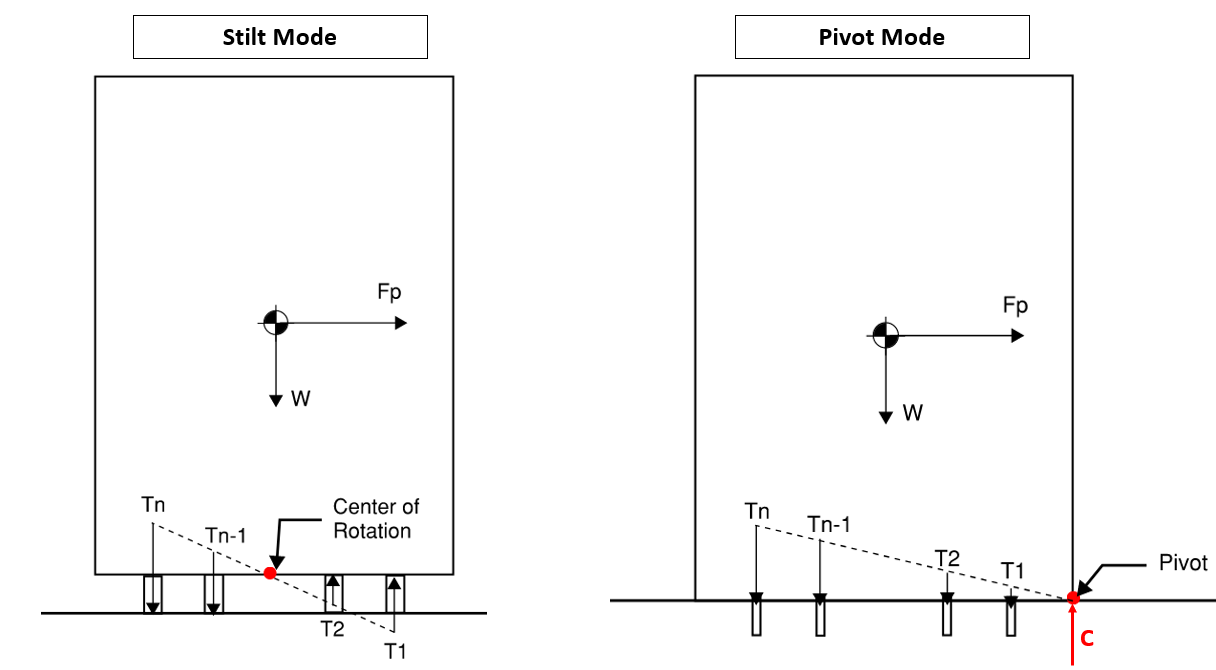
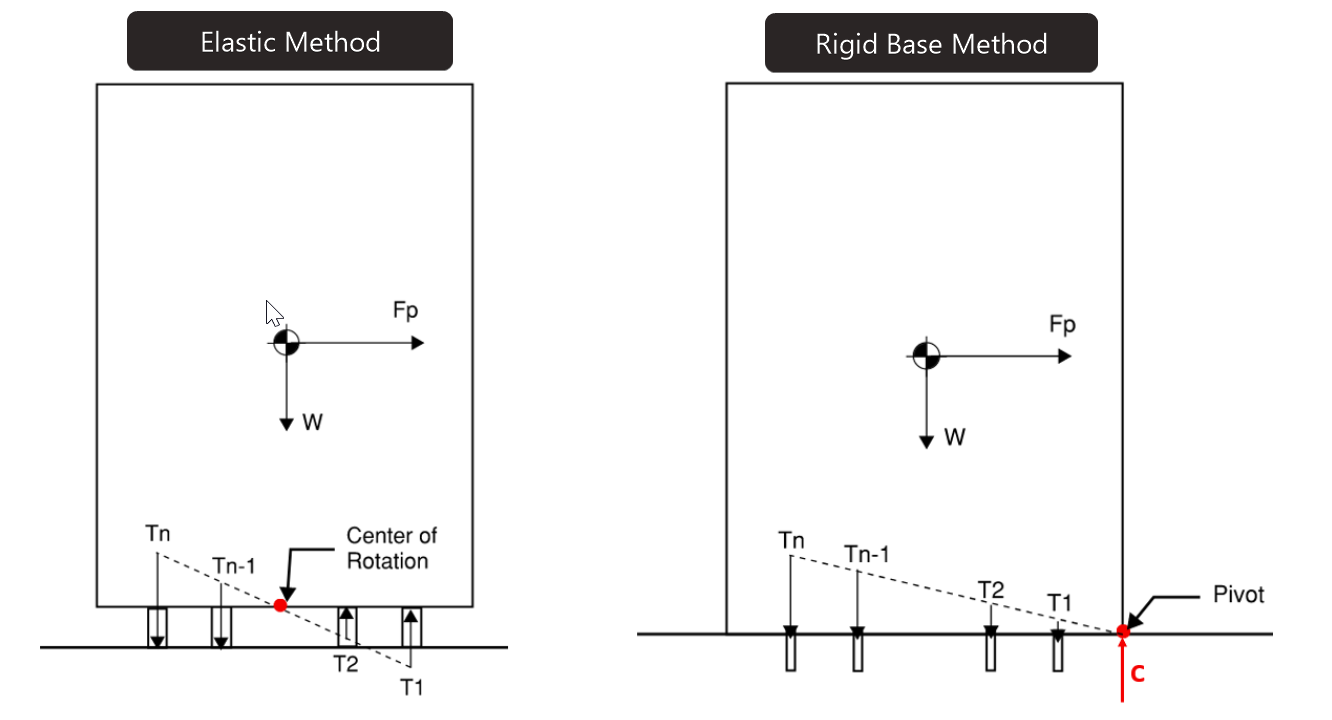
updating readme progress

diff --git a/main.py b/main.py
@@ -2,7 +2,8 @@ import ezanchor as eza
 
 # initialize equipment anchorage analysis
 AHU4 = eza.equipment.Equipment(name="AHU4", Sds=1.85, Ip=1, h=44, z=44, ap=2.5, Rp=2, omega=2, 
-                               weight=3500, CGz=64, CGx=40, CGy=85, load_combo="LRFD", use_omega=True)
+                               weight=3500, CGz=64, CGx=40, CGy=85, 
+                               load_combo="LRFD", use_omega=True)
 
 # define base footprint
 AHU4.add_footprint(xo=0, yo=0, b=60, h=120)
@@ -19,10 +20,10 @@ AHU4.add_anchor(x=90, y=125)
 # solveW
 AHU4.solve(on_stilt=True)
 
-# visualization options
-fig = eza.plotter.preview(AHU4)
-fig3 = eza.plotter.plot_equipment(AHU4)
-fig2 = eza.plotter.plot_anchor(AHU4, 2)
+# visualization
+eza.plotter.preview(AHU4)
+eza.plotter.plot_equipment(AHU4)
+eza.plotter.plot_anchor(AHU4, 2)
 
-# export data
-#AHU4.export_data()
+# export data in spreadsheet format within current working directory
+AHU4.export_data()

diff --git a/README.md b/README.md
@@ -2,10 +2,11 @@ The following python package accompanies the SEAOC 2024 Convention paper:
 
 **"Critical Orientation of Seismic Force for Floor-Mounted Nonstructural Component Anchorage" (Wang et al, 2024)**
 
+See abstract below. For additional information, please refer to the 2024 SEAOC Convention proceedings, accessible online.
+
 > The design of nonstructural component anchorage depends on both magnitude and direction of the seismic force (Fp), the latter of which is the subject of this paper. In recent years, research efforts led by ATC (2017) have greatly improved the estimation of seismic demand, resulting in a revamped Fp equation in the 2022 version of ASCE/SEI-7. As for direction, the code offers limited guidance and states that Fp shall be applied in the direction that produces the most critical load effects. Alternatively, the code permits the use of the empirical “100%-30%” directional combination like the one used in the seismic analysis of building structures. In this paper, we explore the surprisingly nuanced topic of critical load orientation for design of floor-mounted component anchorage. The study began with a rigorous definition of how the load effects – namely anchor shear and tension demand – are calculated, addressing variabilities in assumptions and methods in industry practice. The formulations were then incorporated into a standalone python package to streamline calculations. Using this program, a series of parametric studies were conducted to tackle the key question: “how does one determine the critical force direction for floor-mounted component anchorage?”. An example problem is provided at the end to illustrate the concepts discussed herein.
 >
 
-For additional details, please refer to the 2024 SEAOC Convention proceedings, accessible online.
 
 
 
@@ -14,13 +15,12 @@ For additional details, please refer to the 2024 SEAOC Convention proceedings, a
   <br>
   <img src="https://raw.githubusercontent.com/wcfrobert/ezanchor/master/docs/logo.png" alt="logo" style="zoom:80%;" />
   <br>
-  Nonstructural Component Anchorage Calculator
+  Nonstructural Component Anchorage
   <br>
 </h1>
 <p align="center">
-EZAnchor calculates anchorage demand of floor-mounted nonstructural components subjected to seismic forces at all possible orientations.
+EZAnchor calculates anchor demands of floor-mounted nonstructural components subjected to seismic forces in all possible orientations.
 </p>
-
 
 
 
@@ -44,33 +44,26 @@ EZAnchor calculates anchorage demand of floor-mounted nonstructural components s
   * [Step 5: Visualize](#step-5--visualize)
   * [Step 6: Export results to CSV](#step-6--export-results-to-csv)
 - [Theoretical Background](#theoretical-background)
-  * [Load Combination and Seismic Force (ASCE 7-16 Chapter 13)](#load-combination-and-seismic-force--asce-7-16-chapter-13-)
-  * [Anchor Group Geometric Properties](#anchor-group-geometric-properties)
-  * [Equipment Orientation](#equipment-orientation)
-  * [Pivot Mode](#pivot-mode)
-  * [Stilt Mode](#stilt-mode)
 - [Notes and Assumptions](#notes-and-assumptions)
 - [License](#license)
 
 
 
+
 ## Introduction
 
-EZAnchor is a Python applet that performs nonstructural components seismic force (Fp) calculations per ASCE 7-16 Chapter 13, it then applies Fp in all possible directions (all 360 degrees) to determine the maximum shear and tension in the anchors holding the equipment in place.
+EZAnchor is a Python package that performs nonstructural components seismic force (Fp) calculations per ASCE 7-16 Chapter 13, it then applies Fp in all possible directions (all 360 degrees) to determine the maximum shear and tension in the anchors holding the equipment in place.
 
 <img src="https://raw.githubusercontent.com/wcfrobert/ezanchor/master/docs/FBD_COMBINED.png" alt="FBD" style="width:90%;" /> 
 
 
-The technical background for equipment overturning calculation is quite simple. In most cases, some basic statics and free-body diagrams will get you close enough to a reasonable answer. What makes EZAnchor special are the following features.
+The technical background for equipment overturning calculation is quite simple. In most cases, some basic statics and free-body diagrams will get you close enough. What makes EZAnchor special are the following:
 
 * Can evaluate equipment with arbitrary number and arrangement of anchors
 * Can evaluate equipment overturning in all possible orientations
 * Can quickly calculate Ix, Iy, Ip, Ixy, principal moments of inertia of any anchor arrangement
 * Can calculate effect of in-plane torsion (where anchor group centroid (COR) does not coincide with equipment COG)
-* Can quickly switch between "Pivot Mode" or "Stilt Mode"
-
-**Disclaimer:** this package is meant for <u>personal or educational purpose only</u>. I did not spent much time debugging all the edge cases and nothing is as robust as it could be. EZAnchor should not be used for commercial purpose of any kind!
-
+* Can quickly switch between rigid base method (`on_stilt=False`) or elastic method (`on_stilt=True`).
 
 
 
@@ -83,13 +76,15 @@ See "Installation" section below for more info. For casual users, simply use Ana
 **Using EZAnchor**
 
 ```python
-# import ezanchor
+# import ezanchors
 import ezanchor as eza
 
-# initialize equipment anchorage analysis
-AHU4 = eza.equipment.Equipment(name="AHU4", Sds=1.85, Ip=1, h=44, z=44, ap=2.5, Rp=2, omega=2, weight=3500, CGz=64, CGx=40, CGy=85, load_combo="LRFD", use_omega=True)
+# initialize equipment object
+AHU4 = eza.equipment.Equipment(name="AHU4", Sds=1.85, Ip=1, h=44, z=44, ap=2.5, Rp=2, omega=2, 
+                               weight=3500, CGz=64, CGx=40, CGy=85, 
+                               load_combo="LRFD", use_omega=True)
 
-# define equipment base footprint
+# define base footprint
 AHU4.add_footprint(xo=0, yo=0, b=60, h=120)
 AHU4.add_footprint(xo=60, yo=60, b=60, h=60)
 
@@ -101,19 +96,17 @@ AHU4.add_anchor(x=30, y=125)
 AHU4.add_anchor(x=90, y=55)
 AHU4.add_anchor(x=90, y=125)
 
-# solve
-AHU4.solve(on_stilt=False)
+# solveW
+AHU4.solve(on_stilt=True)
 
-# visualization options
-fig1 = eza.plotter.preview(AHU4)
-fig2 = eza.plotter.plot_anchor(AHU4, 2)
-fig3 = eza.plotter.plot_equipment(AHU4)
-fig1.show()
-fig2.show()
-fig3.show()
+# visualization
+eza.plotter.preview(AHU4)
+eza.plotter.plot_equipment(AHU4)
+eza.plotter.plot_anchor(AHU4, 2)
 
-# export data
+# export data in spreadsheet format within current working directory
 AHU4.export_data()
+
 ```
 
 
@@ -122,7 +115,7 @@ AHU4.export_data()
 
 **<u>Option 1: Anaconda Python Distribution</u>**
 
-For the casual users, using the base Anaconda Python environment is recommened. This is by far the easiest method of installation. Users don't need to worry about dependency management and setting up virtual environments. The following open source packages are used in this project:
+The easiest way to use EZAnchors is through Anaconda Python. The following open source packages are used in this project which are included in the base environment of Anaconda.
 
 * Numpy
 * Matplotlib
@@ -131,9 +124,10 @@ Installation procedure:
 
 1. Download Anaconda python
 2. Download this package (click the green "Code" button and download zip file)
-3. Open and run "main.py" in Anaconda's Spyder IDE. Make sure working directory is correctly configured.
+3. Open and run "main.py" in Anaconda's Spyder IDE
 
-**<u>Option 2: Command Prompt + Plain Python</u>**
+
+**<u>Option 2: Standalone Python</u>**
 
 1. Download this project to a folder of your choosing
     ```
@@ -160,7 +154,7 @@ Installation procedure:
     py main.py
     ```
 
-Note that pip install is available.
+Pip install is also available.
 
 ```
 pip install ezanchor
@@ -296,9 +290,9 @@ AHU4.add_anchor_group(x0=5, y0=5, b=50, h=110, nx=2, ny=3, mode="p")
 `Equipment.solve(on_stilt = False)` starts analysis routine.
 
 * on_stilt: boolean (optional)
-  * Choose between stilt mode or pivot mode. Default = False = pivot mode
+  * Choose between elastic method or rigid base method. Default = False = rigid base method.
 
-Refer to "Theoretical Background" section for how pivot mode and stilt mode differs.
+Refer to "Theoretical Background" section for how these two methods differs.
 
 ```python
 # solve
@@ -368,16 +362,37 @@ fig3 = eza.plotter.plot_equipment(AHU4)
 
 `Equipment.export_data()` export results to csv file in the current working directory.
 
-EZAnchor will create a folder called {Equipment.name}_run_results. Within the folder you will see two csv files.
+EZAnchor will create a folder called `{Equipment.name}_run_results`. Within this folder you will see two csv files.
 
-* AHU4_anchors.csv - results for individual anchors
-* AHU4_equipment.csv - results for equipment
+* `AHU4_anchors.csv` - results for individual anchors
+* `AHU4_equipment.csv` - results for equipment
 
-Note that if {Equipment.name}_run_results folder already exists, EZAnchor will create another folder by appending an integer to the end of the folder name (e.g. AHU4_run_results1).
 
 ```python
 AHU4.export_data()
 ```
+
+
+
+
+
+## Theoretical Background
+
+### Anchor Shear - Elastic Method
+
+
+
+
+
+### Anchor Tension - Elastic Method
+
+
+
+### Anchor Tension - Rigid Base Method
+
+
+
+
 
 
 
@@ -390,7 +405,7 @@ AHU4.export_data()
   * Z is the vertical axis (Elevation)
   * X and Y are the axes on plan. +X points to the right, +Y points up
 * Sign convention:
-  * At degree 0, seismic load is applied in the +Y direction (upward)
+  * At degree 0, seismic load is applied in the +Y direction (upward) (don't ask me why I rotated 90 degrees. Makes no sense in retrospect)
   * Sign of moment follows the right-hand rule. Mz is positive counter-clockwise
   * Compression is negative (-), tension is positive (+)
 * EZAnchor is agnostic when it comes to unit. Please ensure your input is consistent. I prefer to use lbs and inches
